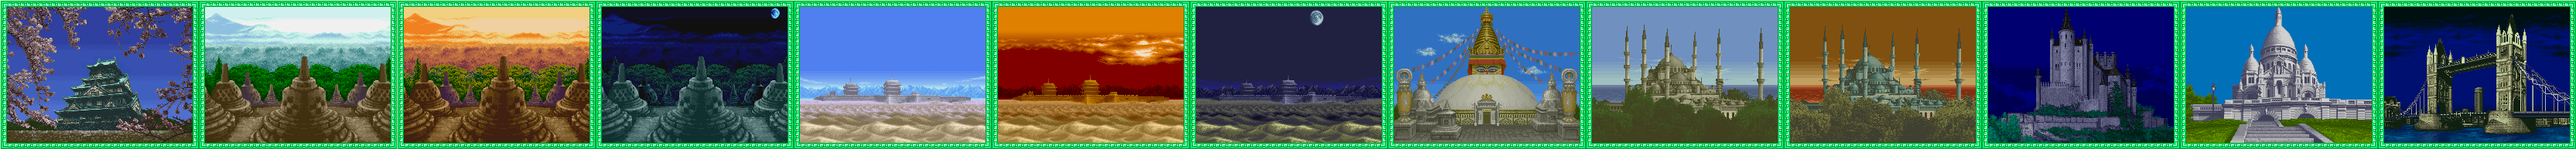
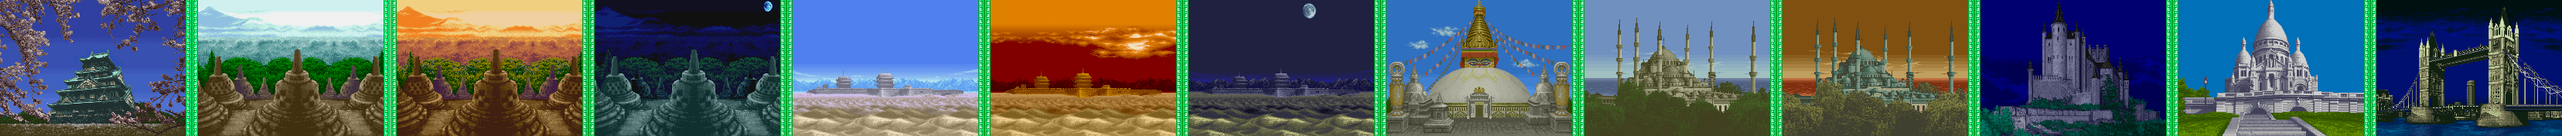
Fix: Select random background

diff --git a/starter_code/background.js b/starter_code/background.js
@@ -14,8 +14,8 @@ function Background(canvasId, sprite, width, height) {
     this.widthFrame = Math.floor(this.width / this.sprite.frames);
   }).bind(this);
   // debugger
-  this.sprite.frames = 16;
-  this.sprite.frameIndex = 14;
+  this.sprite.frames = 3;
+  this.sprite.frameIndex = Math.floor(Math.random()*3);
   this.x = 0;
 }
 
@@ -33,8 +33,8 @@ Background.prototype.draw = function() {
       this.sprite.height, // frame heigth
       this.x, // destination x
       0, // destination y
-      this.widthFrame, // destination frame width
-      this.height); // destination frame heigth
+      640,//this.widthFrame, // destination frame width
+      480);//this.height); // destination frame heigth
   }
 };
 /*

diff --git a/starter_code/game.js b/starter_code/game.js
@@ -11,7 +11,7 @@ function Game(canvasId, width, height) {
   this.beginCount=false;
   this.countdown=320;
   // debugger
-  this.bg = new Background(this.canvas, "./images/backgrounds.png", this.width, this.height);
+  this.bg = new Background(this.canvas, "./images/bg3units.png", this.width, this.height);
   this.baloon = new Baloon(this.canvas, "./images/baloon1.png");
   this.over = new Over(this.canvas, "./images/game-over.png");
   this.player = new Player(this.canvas, "./images/pang.png", 530, this.height);
